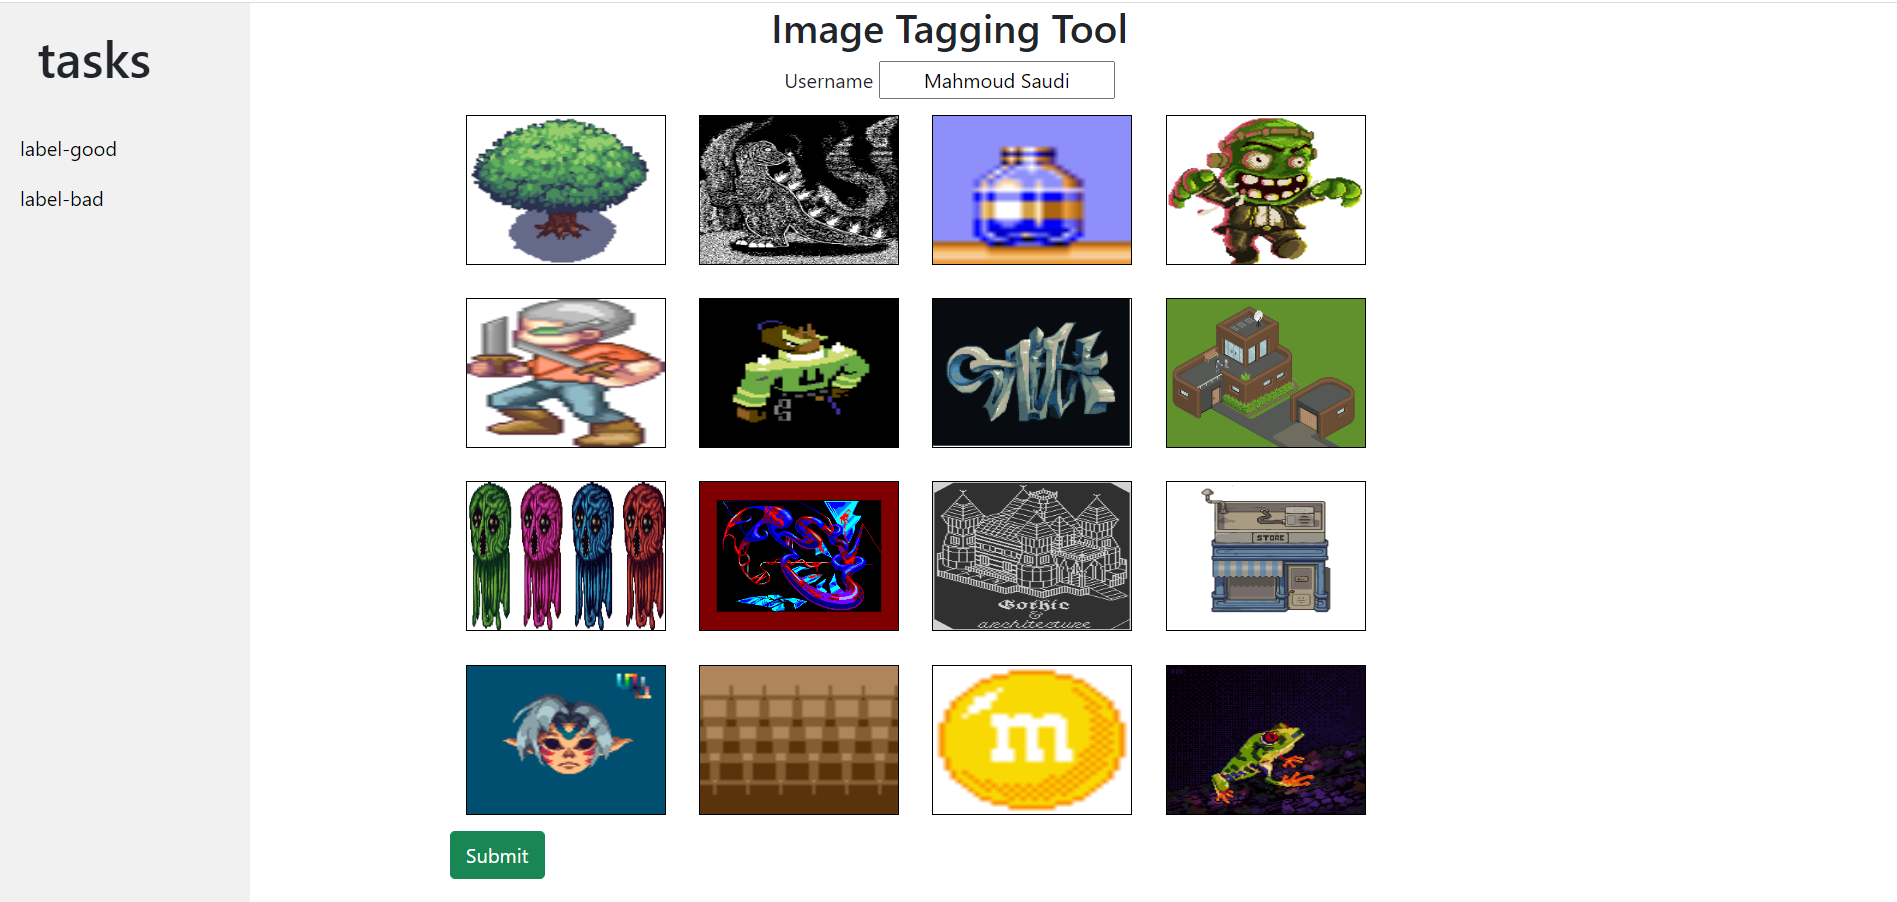
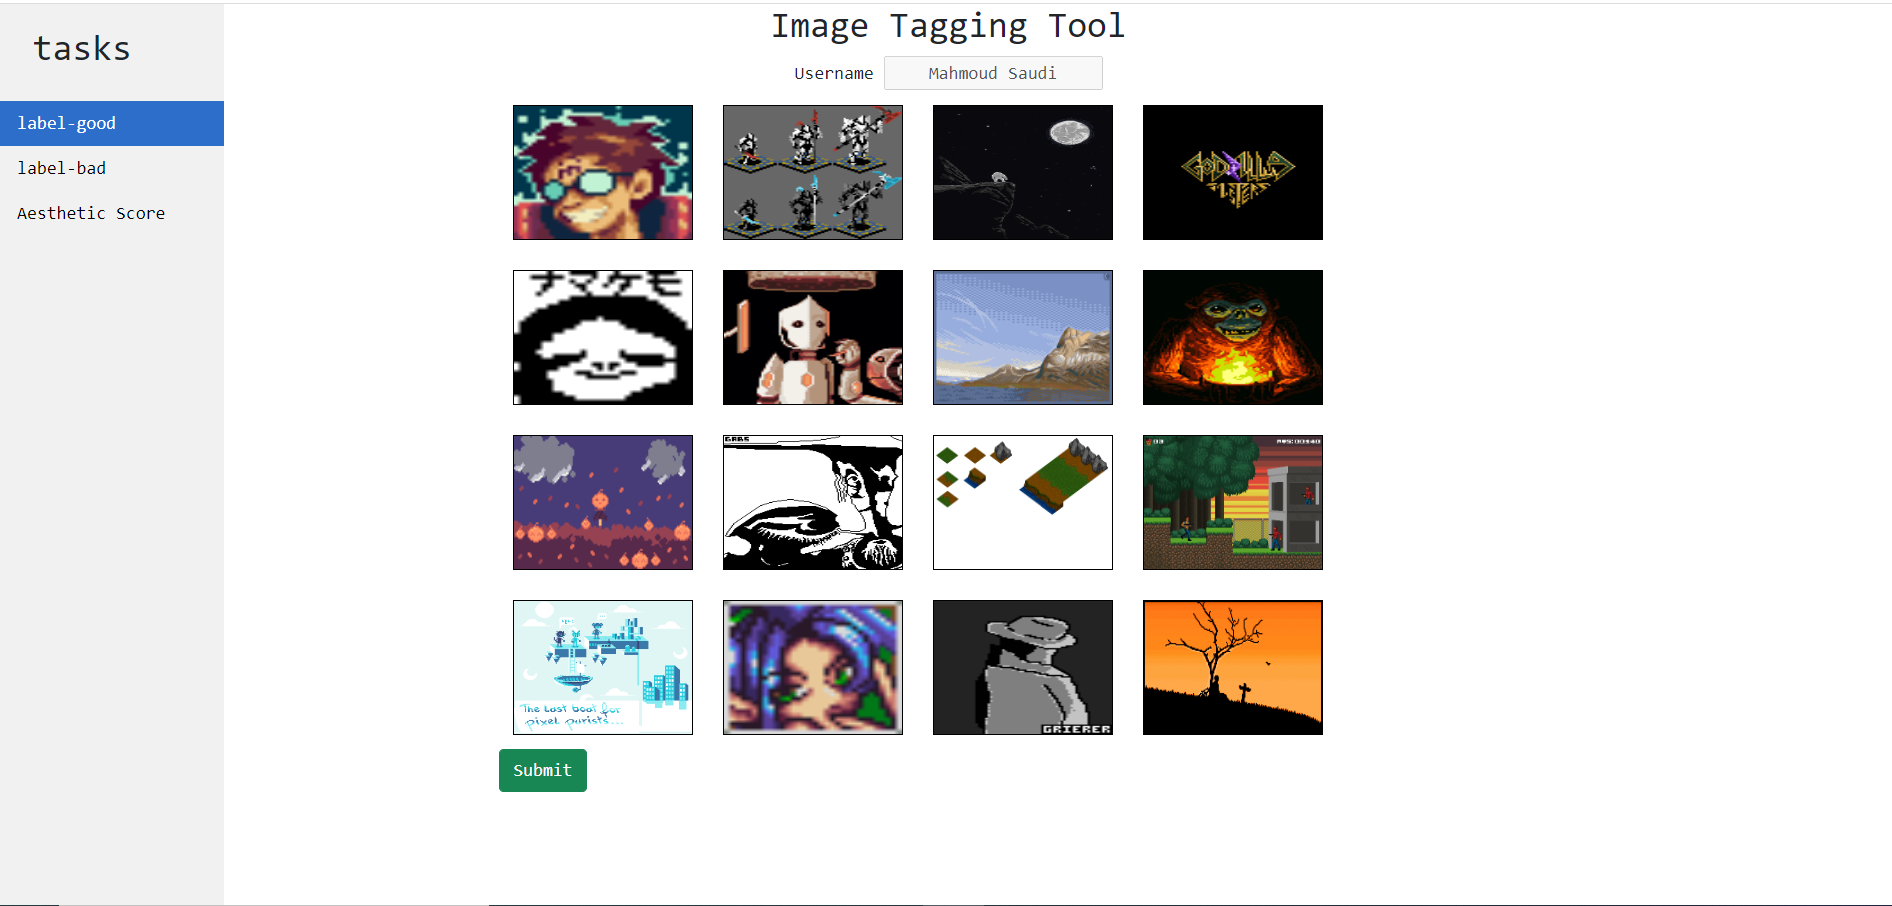
added username option and create user-settings.json file at tool startup

diff --git a/image-tagging-tool/templates/index.html b/image-tagging-tool/templates/index.html
@@ -1,7 +1,7 @@
 {% extends 'base.html' %} {% block head %} {% block sidebar %}
 <ul>
     <li style="display: block; padding: 20px 30px;">
-        <h1>tasks</h1>
+        <h2>tasks</h2>
     </li>
     {% for label in labels %}
     <li><a class="{{'active' if 'label-' + label.name ==  active_label}}" href="#{{label.name}}">label-{{label.name}}</a></li>
@@ -18,7 +18,7 @@
     <!-- <div class="col col-md-5"></div> -->
     <!-- <br> -->
     <label for="username">Username</label>
-    <input type="text" style="text-align: center;" id="username" value="{{username}}">
+    <input type="text" disabled="true" style="text-align: center;" id="username" value="{{username}}">
 </div>
 <!-- <hr> -->
 
@@ -51,10 +51,10 @@
         <button class="score-button">2</button>
     </div>
 
-    <div style="margin-top: 5%; margin-left: 0%;" class="row">
+    <div style="text-align: center;" class="row">
         <div class="col">
             <multi-input>
-                <input class="score-image-tag" type="search" list="tag-name" placeholder="Choose a tag name">
+                <input class="score-image-tag" type="search" list="tag-name" placeholder="Tag">
                 <datalist id="tag-name">
                     {% for predicted in predicted_tags %}
                     <option value="{{predicted}}" />{% endfor %}
@@ -63,7 +63,7 @@
 
         </div>
 
-        <h5 style="margin-top: 5%; margin-left: -40%;">Selected Tags: </h5> <br>
+        <h3 style="text-align: left;">Selected Tags: </h3> <br>
         <div class="selected-tags"></div>
 
         <!-- <div class="col">
@@ -78,6 +78,25 @@
 </div>
 
 <style>
+    @import url(https://cdn.jsdelivr.net/npm/firacode@6.2.0/distr/fira_code.css);
+    * {
+        font-family: 'Fira Code', monospace;
+    }
+    
+    @supports (font-variation-settings: normal) {
+        * {
+            font-family: 'Fira Code Retina', monospace;
+        }
+    }
+    
+     ::placeholder {
+        text-align: center;
+    }
+    
+    .selected-tags {
+        text-align: justify;
+    }
+    
     .score-group {
         text-align: center;
         margin-top: 50px;

diff --git a/image-tagging-tool/utils.py b/image-tagging-tool/utils.py
@@ -1,4 +1,5 @@
 import hashlib
+import json
 import os
 import random
 from PIL import Image
@@ -25,6 +26,43 @@ class Utils:
         pass 
     
     
+    def create_settings_file(self, username: str, images_dataset_directory: str, tag_tasks: list, data_output_directory: str, dictionary_path: str,  grid_dim: int, samples_seed: int) -> None: 
+        """ creates a `JSON` file format that contains all the user settings. 
+        
+        :param user_name: The user name to be used in the tagging tasks. 
+        :type user_name: str
+        :param images_dataset_directory: the root path of the image dataset directory. 
+        :type images_dataset_directory: str
+        :param tag_tasks: the tagging tasks/labels to use in the tool, and should be provided as a list. 
+        :type tag_tasks: list
+        :param data_output_directory: the directory to write the resultant `json` files inside, the `json` files contains the tagged images metadata.
+        :type data_output_directory: str
+        :param dictionary_path: path to the dictionary to be used in tagging the `Aesthetic scores` task. 
+        :type dictionary_path: str
+        :param grid_dim: the dimension of the grid displaying the images, the grid is a square default dim is `4`. 
+        :type grid_dim: int
+        :param samples_seed: seed of the pseudo random generator generating the sample images generated to be displayed in the grid, default is `None`
+        :type samples_seed: int
+        :returns: 
+        :rtype: None
+        """
+
+        settings_file_path = os.path.realpath(os.path.join(os.getcwd(), os.path.dirname(__file__), "user-settings.json"))
+        user_settings = {
+            'username': username, 
+            'images_dataset_directory': images_dataset_directory, 
+            'tag_tasks': tag_tasks , 
+            'data_output_directory': data_output_directory, 
+            'dictionary_path': dictionary_path, 
+            'grid_dim': grid_dim, 
+            'samples_seed': samples_seed, 
+        }
+        
+        with open(settings_file_path, "w", encoding = "utf-8") as settings_file: 
+            json.dump(user_settings, settings_file, indent = 4)
+        
+        return 
+
     def get_all_dictionary(self) -> list[str]: 
         """ method to get all words in the dictionary as a list.  
         

diff --git a/image-tagging-tool/ImageTaggingTool.py b/image-tagging-tool/ImageTaggingTool.py
@@ -18,7 +18,6 @@ files_list = []
 N = 4 
 seed = None 
    
-   
 #index of the web app. 
 @app.route('/', methods = ['GET'])
 def index(): 
@@ -107,11 +106,13 @@ def label_images():
 
 
 
-def image_tagging_tool_cli(images_dataset_directory: str, tag_tasks: list, data_output_directory: str, dictionary_path: str = None,  grid_dim: int = 4, samples_seed: int = None) -> None: 
+def image_tagging_tool_cli(user_name: str, images_dataset_directory: str, tag_tasks: list, data_output_directory: str, dictionary_path: str = None,  grid_dim: int = 4, samples_seed: int = None) -> None: 
    """ given an image dataset directory and the tag tasks you need to apply for this dataset, the tool runs web UI can be found at 
          http://127.0.0.1:5000 with a grid of images taken from the image directory you have passed to be used for tagging depending 
             on the task you choose, the tagged images metadata can be found inside the `data_output_directory` as `json` files. 
    
+   :param user_name: The user name to be used in the tagging tasks. 
+   :type user_name: str
    :param images_dataset_directory: the root path of the image dataset directory. 
    :type images_dataset_directory: str
    :param tag_tasks: the tagging tasks/labels to use in the tool, and should be provided as a list. 
@@ -149,12 +150,13 @@ def image_tagging_tool_cli(images_dataset_directory: str, tag_tasks: list, data_
    seed = samples_seed
    
    global username
-   username = ""
+   username = user_name
    
    global utils 
    
    utils = Utils(dictionary_path)
-
+   utils.create_settings_file(user_name, images_dataset_directory, tag_tasks, data_output_directory, dictionary_path, grid_dim, samples_seed)
+   
    app.run(debug = True)
    
 if __name__ == '__main__':

diff --git a/image-tagging-tool/README.md b/image-tagging-tool/README.md
@@ -14,6 +14,7 @@ pip install -r src/to/dir/requirements.txt
 
 ## CLI Parameters
 
+* `user_name` _[string]_ - _[required]_ - The user name to be used in the tagging tasks. 
 * `images_dataset_directory` _[string]_ - _[required]_ - the root path of the image dataset directory.
 * `tag_tasks` _[list]_ - _[required]_ - the tagging tasks/labels to use in the tool, and should be provided as a list. 
 
@@ -28,7 +29,7 @@ pip install -r src/to/dir/requirements.txt
 ## Example Usage
 
 ```sh
-python src/to/dir/ImageTaggingTool.py --images_dataset_directory='path/to/my-image-dataset' --tag_tasks=[good,bad] --data_output_directory='path/to/output-directory'
+python src/to/dir/ImageTaggingTool.py --user_name='Mahmoud Saudi' --images_dataset_directory='path/to/my-image-dataset' --tag_tasks=[good,bad] --data_output_directory='path/to/output-directory'
 ```
 
 > Note that if the `data_output_directory` is not created the tool automatically creates it for you. 
